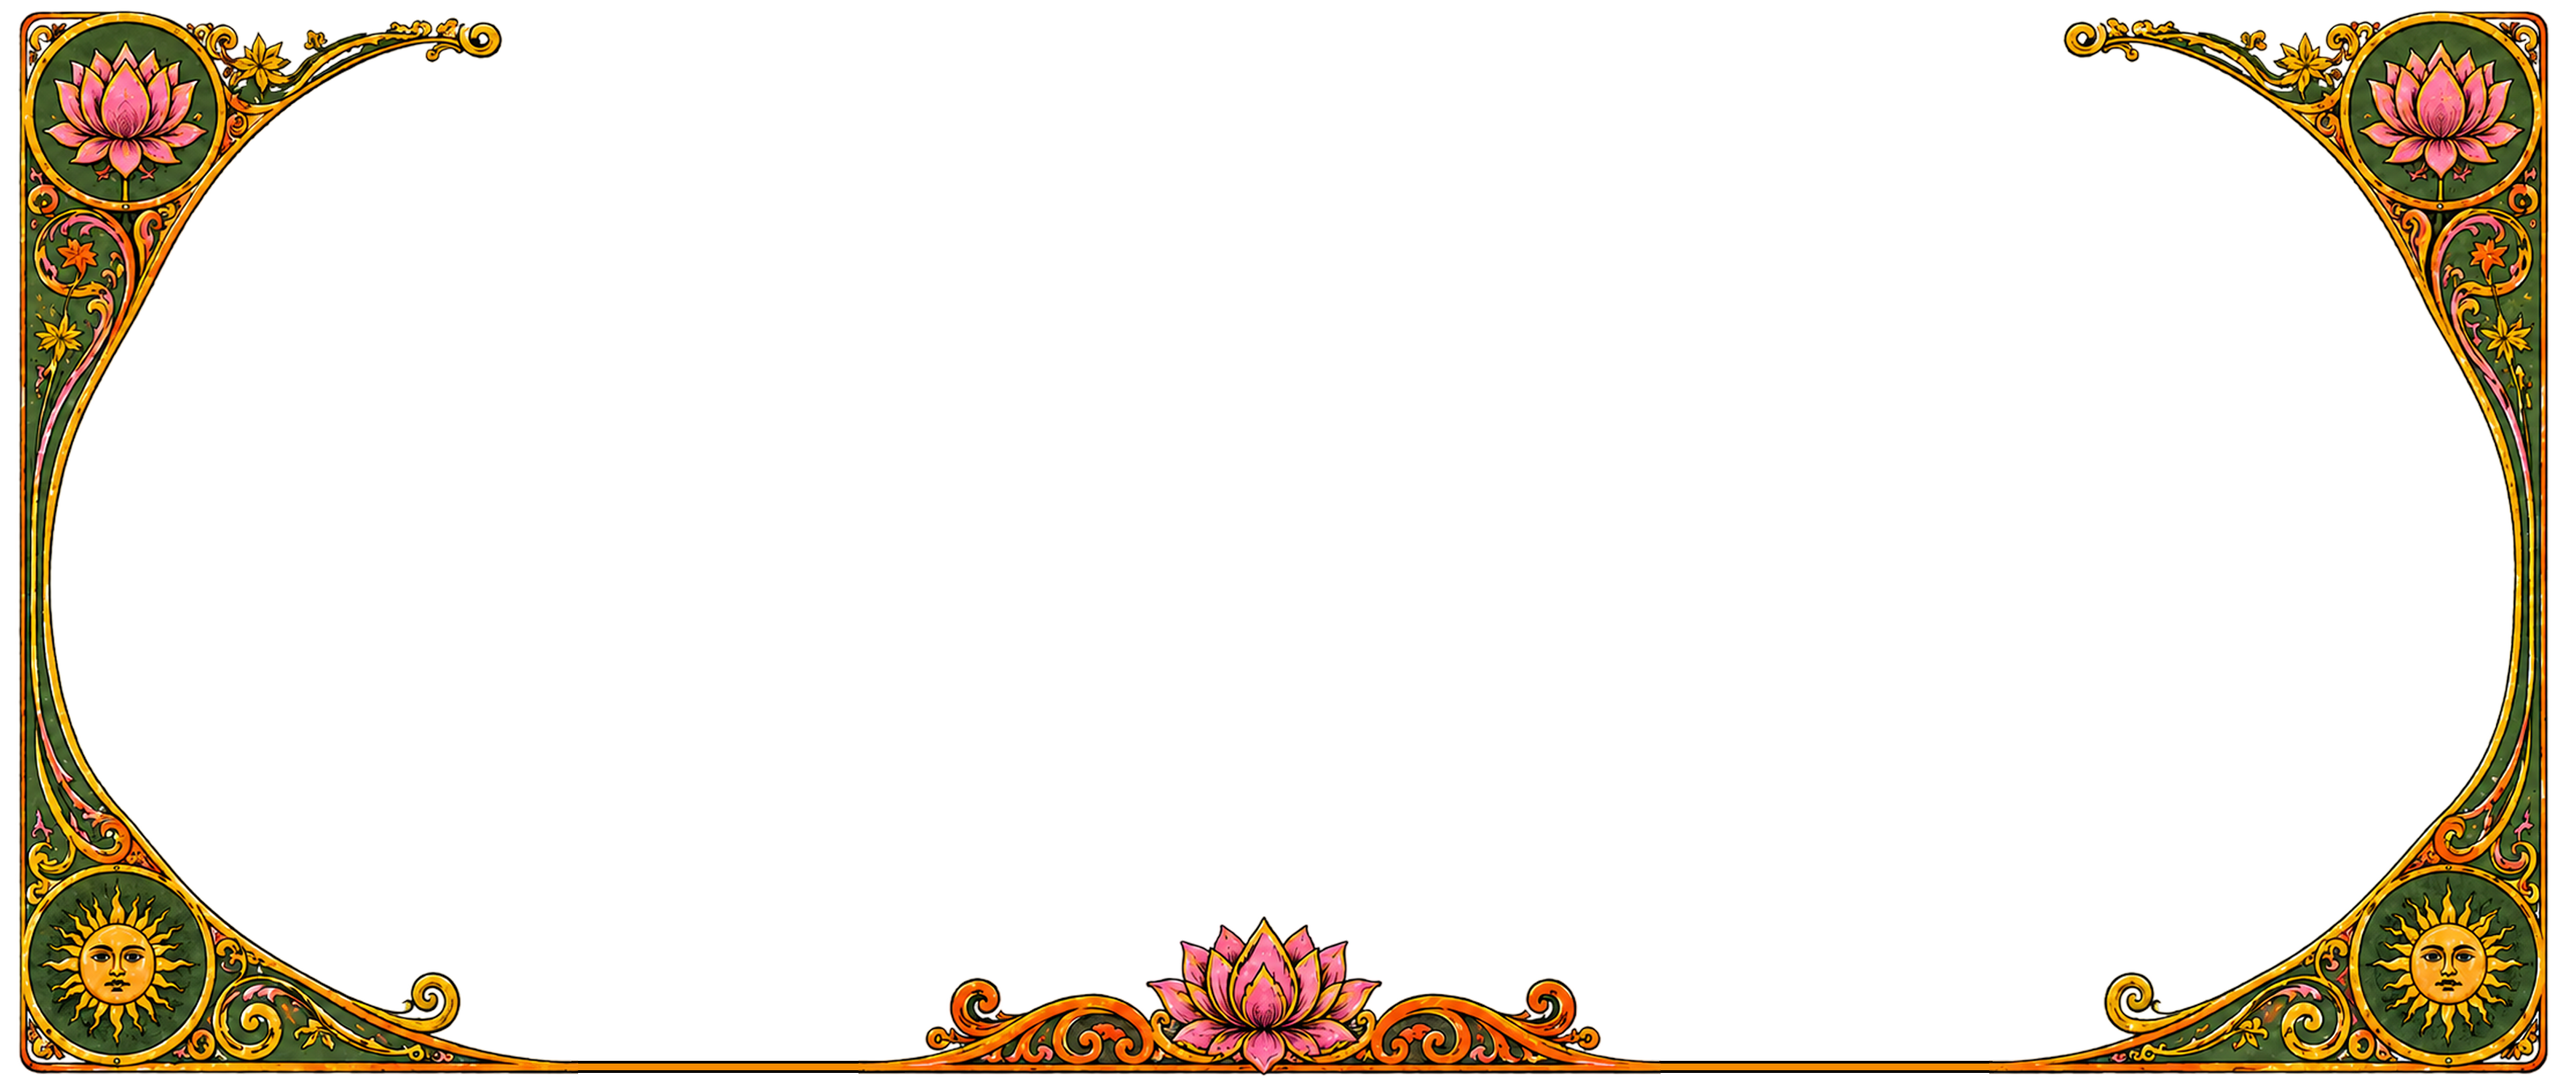
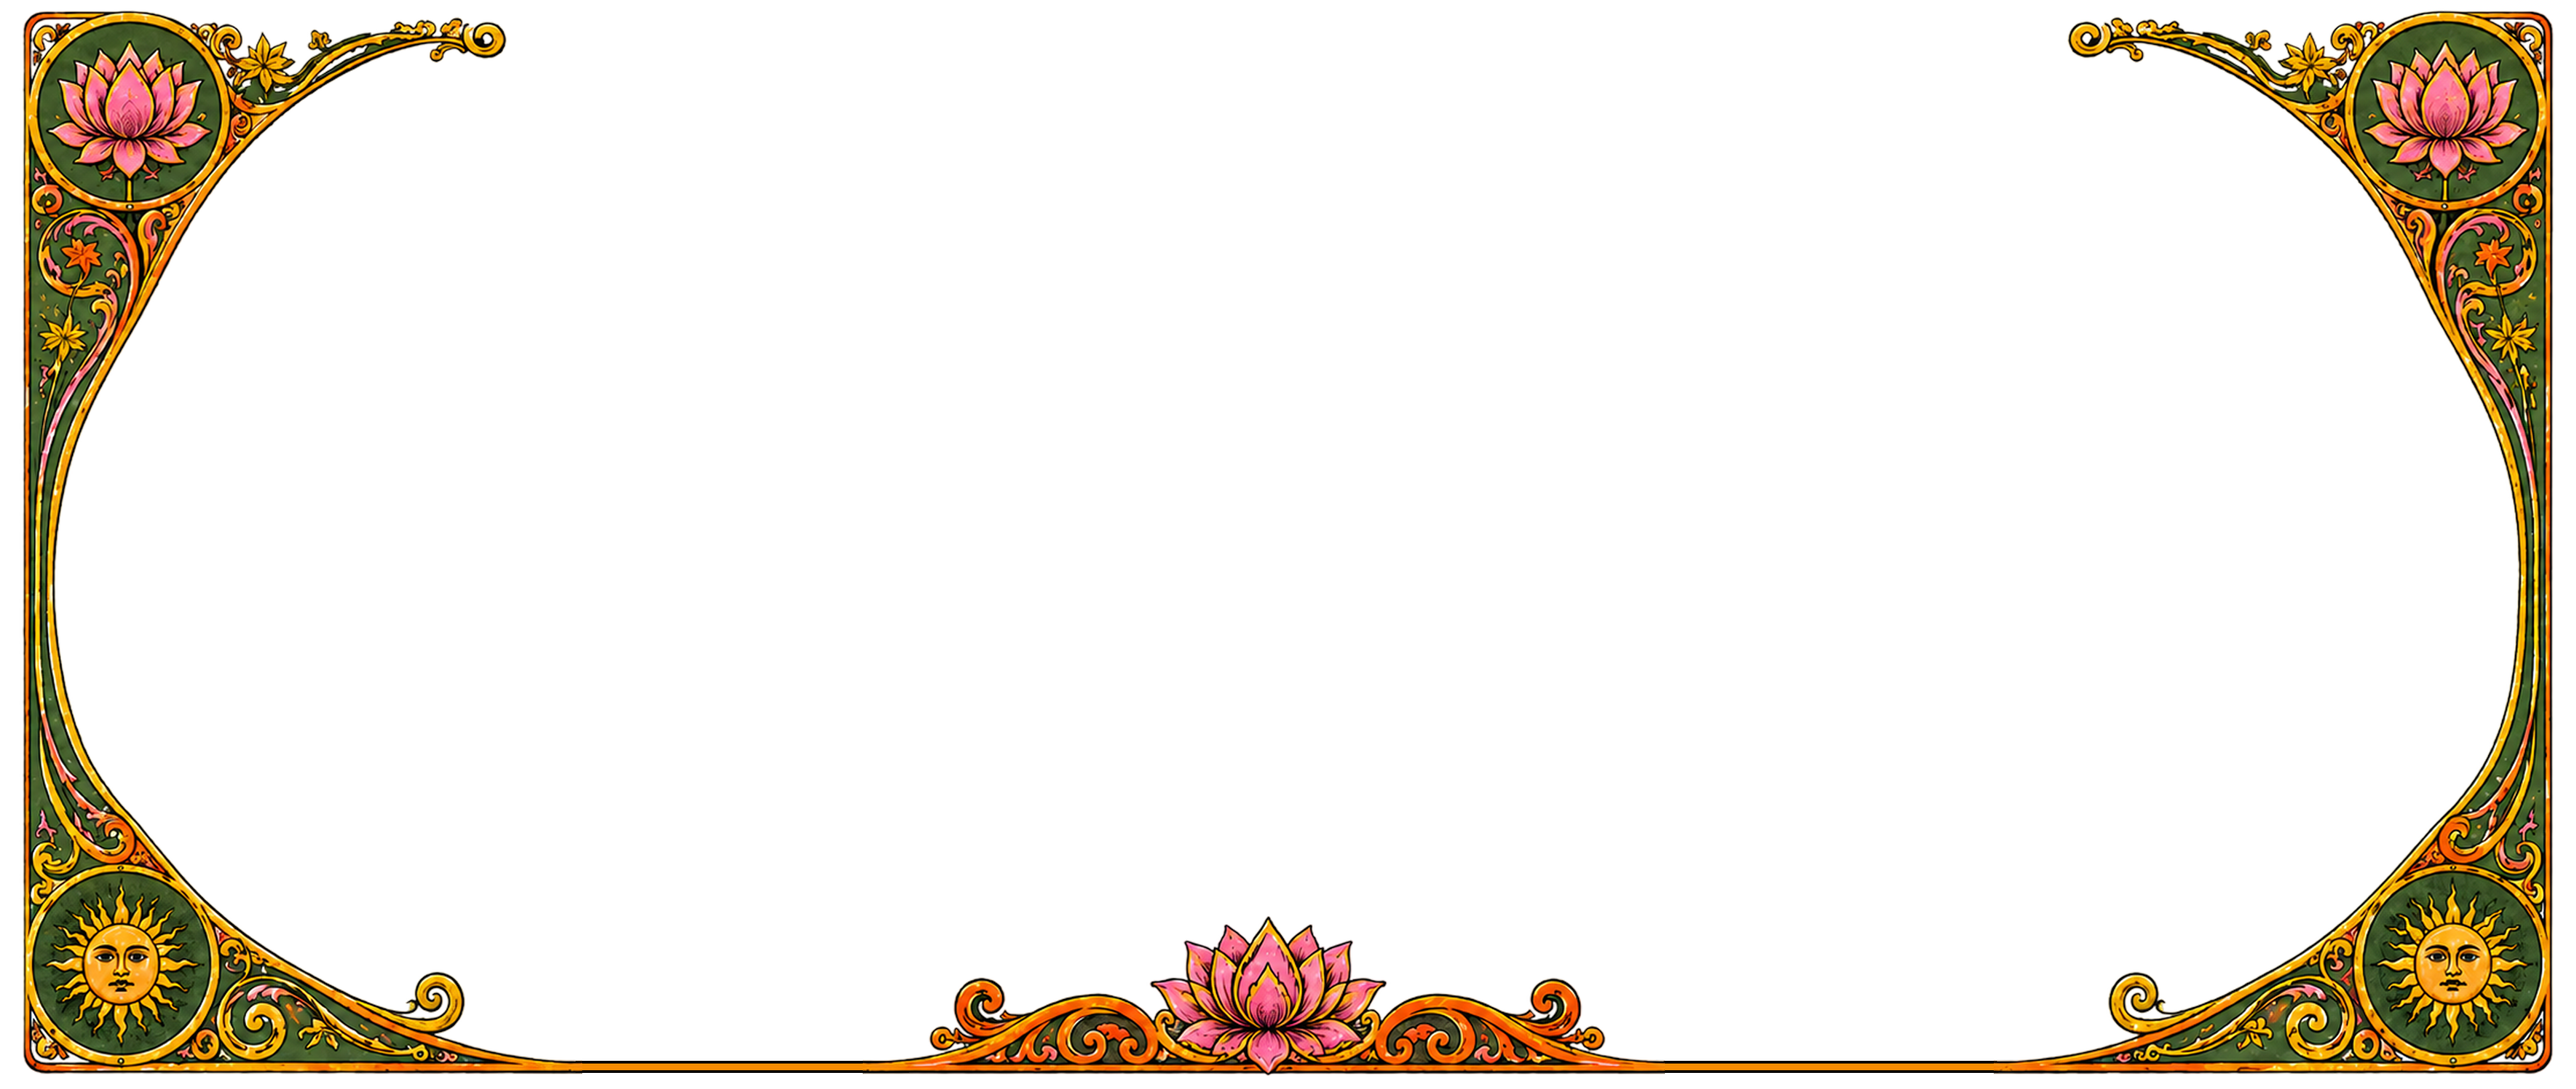
Fix hero section right border alignment to match left border margin with perfect symmetry

Changed region(s): [[0.0, 0.0, 0.2181, 0.9852], [0.7788, 0.0, 0.9969, 0.9852], [0.3427, 0.8313, 0.6542, 0.9852]]

diff --git a/style.css b/style.css
@@ -112,7 +112,7 @@ body {
 .hero-section {
   position: sticky;
   top: 0;
-  width: 100vw;
+  width: 100%;
   aspect-ratio: 3840 / 1624; /* Maintain the background image aspect ratio */
   background-color: #FFFCDE; /* Off-white color fallback for seamless blending */
   overflow: hidden;
@@ -144,8 +144,8 @@ body {
   width: 100%;
   height: 100%;
   background-image: url('Silverframe-bg.png');
-  background-size: cover;
-  background-position: bottom center;
+  background-size: 100% 100%;
+  background-position: center center;
   background-repeat: no-repeat;
   z-index: 2; /* Sits above the blue background layer but below elements */
   pointer-events: none; /* Let pointer click interactions pass through */

diff --git a/index.html b/index.html
@@ -4,7 +4,7 @@
   <meta charset="UTF-8">
   <meta name="viewport" content="width=device-width, initial-scale=1.0">
   <title>Harsh - Portfolio</title>
-  <link rel="stylesheet" href="style.css?v=78">
+  <link rel="stylesheet" href="style.css?v=79">
   <!-- Google Fonts for Plus Jakarta Sans & Cormorant Garamond -->
   <link rel="preconnect" href="https://fonts.googleapis.com">
   <link rel="preconnect" href="https://fonts.gstatic.com" crossorigin>
